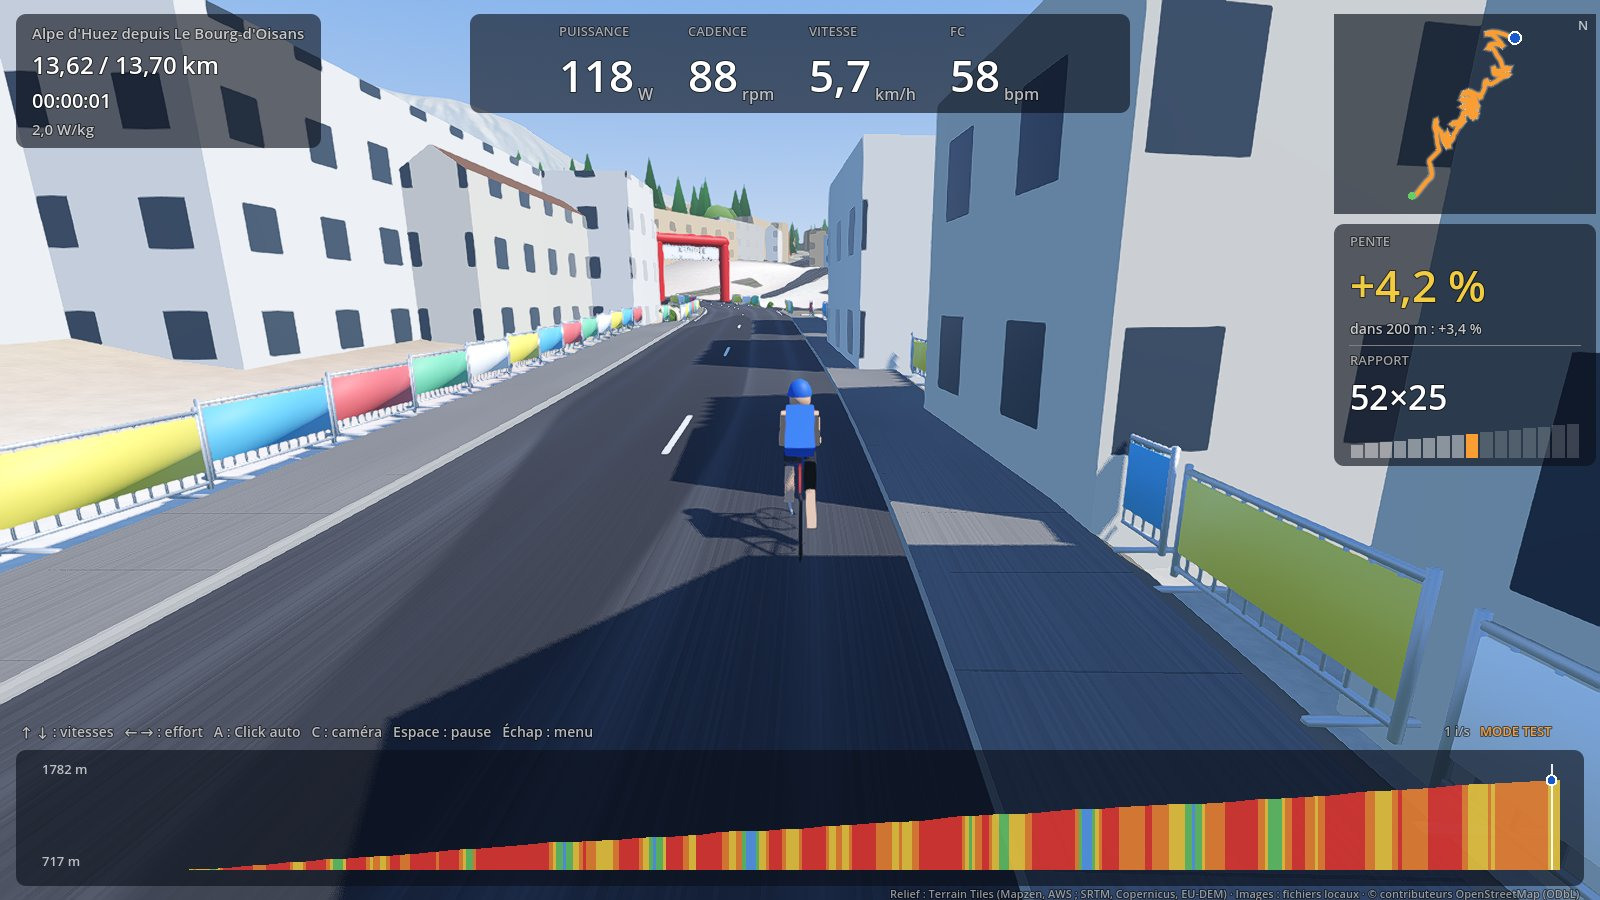
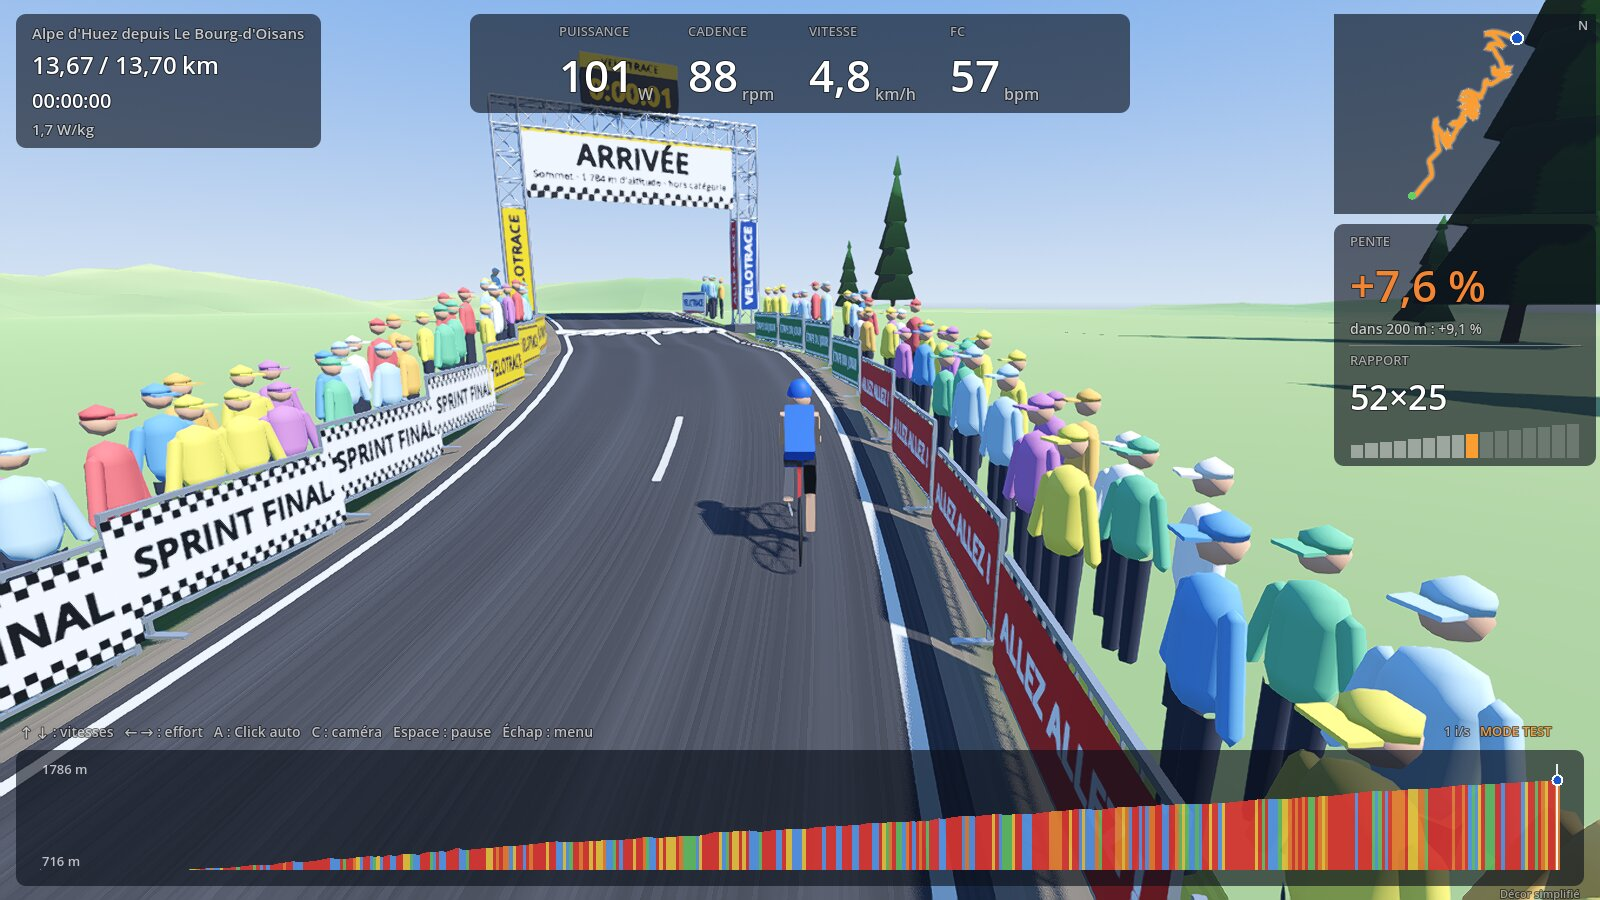
Documente le mobilier de course façon Tour de France
Claude-Session: https://claude.ai/code/session_01GmXukm6M6D5fXNDfcUXFLU

diff --git a/docs/architecture.md b/docs/architecture.md
@@ -112,7 +112,7 @@ Pipeline d'import exécuté une fois par GPX, résultat mis en cache sur disque 
 - route (`road.rs`) : axe lissé (gaussienne σ 5 m) puis rééchantillonné tous les mètres en Catmull-Rom ; maillage 4 sommets par mètre (chaussée de 6 m, accotements de 1,3 m abaissés de 36 cm, au niveau du sol aplani) découpé en tronçons de 200 m ; balises J6 tous les 50 m ; le shader dessine enrobé, rustines, lignes de rive et tirets usés, gravier puis herbe sur les accotements, puis le sol du bord de route (voir plus bas) ;
 - route d'après OSM (`roadnet.rs`) : chaque point du GPX est rattaché à la route OSM la plus plausible (à moins de 14 m, même sens, de préférence la même qu'au point précédent) puis recalé dessus ; profil en travers par échantillon (demi-largeur depuis `width`, sinon `lanes` × largeur de voie selon la classe ; trottoirs `sidewalk*`, sinon trottoir dessiné à part ou au moins trois façades à moins de 28 m ; marquages selon la classe, axe continu quand la courbure lissée dépasse 1/70 m) ; amorces de 30 m pour chaque route qui partage un nœud OSM avec la route suivie ou un anneau : elles partent de ce nœud sous la chaussée (6 cm plus bas, même pente, dévers compris), s'évasent de 2,5 m × sin(angle) au débouché, avec cédez-le-passage là où toute leur largeur est sortie, rive discontinue et trottoir interrompu en face ; le reste de chaque route OSM est drapé sur le relief à partir du bout de son amorce (les routes non raccordées, entières) ; ronds-points étiquetés ou anneaux presque circulaires de 5 à 45 m de rayon, dessinés selon leur polyligne OSM lissée (sens antihoraire, distance signée à l'axe pour masquer le parcours et raccorder les amorces), sur un plan ajusté aux altitudes du parcours (pente ≤ 10 %), avec bande franchissable et îlot bombé ; relief aplani sous tout cela par un index de points (replat puis fondu, d'un côté à l'autre, et incliné comme la chaussée) ;
 - talus raides : à 10 m au-delà de l'accotement, un relief plus haut de 6 à 10 m appelle un mur de soutènement (parement en moellons, terrasse de 11 m au-dessus qui cache le replat laissé derrière lui pour la maille de 4 m du relief, hauteur 1 à 4 m), plus haut une falaise sculptée (`Cliff` : paroi en grille de 1 m × 0,5 m partant à 0,8 m de l'accotement, fruit de 14 %, relief de ±1 m fait de bancs inclinés en corniches, bombements, ravines tous les ~9 m et blocs, hauteur lissée jusqu'à 30 m et abaissée sur 12 m aux extrémités, rebord qui s'enfonce dans le relief, bouts fermés ; replat de 3 m au pied puis fondu de 8 m du relief derrière la paroi ; shader `cliff.gdshader`), plus bas de 6 m un parapet de 0,75 m ; ni dans un lacet serré, ni contre une autre portion du parcours, une amorce ou un rond-point ;
-- course (`race.rs`) : ascensions détectées sur le profil (`Route::climbs` : au moins 2,5 % sur 200 m, replats de moins de 400 m tolérés, au moins 80 m de dénivelé à 3 % de moyenne) ; arches au départ (15 m), au pied et au sommet de chaque ascension et à l'arrivée, fusionnées à moins de 300 m ; barrières tous les 2,5 m des deux côtés sur 150 m après le départ, ±60 m autour des arches d'ascension et 300 m avant l'arrivée ; arches construites dans Godot (`race.gd`, shader à pois ou damier) ;
+- course (`race.rs`) : ascensions détectées sur le profil (`Route::climbs` : au moins 2,5 % sur 200 m, replats de moins de 400 m tolérés, au moins 80 m de dénivelé à 3 % de moyenne) ; catégorie selon longueur × pente (4e à hors catégorie) ; arches au départ (15 m), au pied et au sommet de chaque ascension (sommet seulement à plus de 300 m de l'arrivée) et à l'arrivée, fusionnées à moins de 300 m, plus banderoles 3 km et 2 km et flamme rouge à 1 km quand elles tombent à au moins 150 m d'une autre arche ; barrières tous les 2,5 m des deux côtés, tournées vers la route, sur 150 m après le départ, ±60 m autour des arches d'ascension, ±40 m autour de la flamme rouge et des 300 derniers mètres jusqu'à 30 m après la ligne, quatre de suite partageant une même bâche ; public derrière les barrières (`spectators`) ; construction dans Godot (`race.gd` : portique en treillis, arches gonflables, ligne d'arrivée peinte, chronomètre `race_clock.gd`, bâches dessinées une fois dans un SubViewport par `race_atlas.gd`, barrières et public en MultiMesh par blocs de 64 m masqués au loin) ;
 - trajectoire du cycliste : à ~1,1 m du bord droit de la chaussée, décalée vers l'intérieur du virage selon la courbure (gain 50) quand la pente est nulle ou négative (pas dans un rond-point), sans franchir l'axe sur une route à double sens (toute la largeur sur une route étroite ou à sens unique), puis lissée sur 10 m et bornée à nouveau (jamais à moins de 0,5 m d'une bordure de trottoir) ; cap mesuré sur ±2 m et inclinaison atan(v²κ/g) ;
 - arbres et buissons : maillages faits main (sapin à 4 étages tombants, feuillu en 5 boules), vent dans le shader ; instances regroupées par cases de 128 m avec une version détaillée jusqu'à 110 à 260 m et une version simplifiée au-delà ;
 - sol du bord de route (`ground.gdshaderinc`, partagé par le relief, les accotements et le rebord des falaises) : chaque carré détaillé reçoit une carte de 128 px (4 m) donnant la part d'herbe, de revêtement et de cailloux (le reste en terre), tirée de l'occupation OSM sans les routes, de la pente du relief brut (éboulis au-delà de ~35°), de l'altitude et de la proximité des bâtiments (cours et parkings, pas sur les talus), et en alpha la proximité d'une chaussée (poids de l'aplanissement × 1,6) ; les sommets des chaussées portent la même nature en CUSTOM0, si bien que l'accotement et le relief ont la même texture au même endroit. Le shader mélange les natures par plaques (bruits fractals, poids au cube) et dessine herbe (brins orientés, touffes, fleurs), cailloux (cellules de Voronoï à trois échelles), terre (aiguilles, galets) et ville (enrobé, dalles de 1,5 m ou pavés en quinconce selon le quartier, joints herbeux), avec un relief fin rendu par la normale perturbée (gradient de surface, sans tangentes) et un hachage entier précis loin de l'origine ;

diff --git a/README.md b/README.md
@@ -67,9 +67,9 @@ Là où la montagne est raide au bord de la route, un mur de soutènement en moe
 
 Au-delà de 45°, une falaise sculptée se dresse au bord de la route : paroi en relief jusqu'à 30 m de haut, avec ses bancs inclinés en corniches, ses ravines, ses surplombs, ses coulures, ses lichens et un rebord herbeux qui rejoint la pente.
 
-![Arche d'arrivée et barrières](docs/captures/arrivee.jpg)
+![Portique d'arrivée, barrières et public](docs/captures/arrivee.jpg)
 
-Comme sur les grands tours, une arche gonflable marque le départ, le pied et le sommet de chaque ascension (à pois, avec sa longueur, sa pente moyenne et l'altitude du sommet) et l'arrivée, avec des barrières à leurs abords. Une ascension compte à partir de 80 m de dénivelé à 3 % de moyenne.
+Comme sur le Tour de France : arche gonflable bleue et blanche au départ, banderole à pois au pied de chaque ascension (longueur, pente moyenne et catégorie, de la 4e à hors catégorie), arche à pois « Grand prix de la montagne » au sommet, banderoles 3 km et 2 km, flamme rouge au dernier kilomètre et, à l'arrivée, un portique en treillis métallique avec son chronomètre, sa banderole « ARRIVÉE » et une ligne peinte à damier. Des barrières habillées de bâches imprimées (slogans inventés, aucune vraie marque) bordent ces endroits, les 300 derniers mètres en entier, avec du public derrière. Une ascension compte à partir de 80 m de dénivelé à 3 % de moyenne.
 
 Près du parcours, des sapins et des feuillus poussent là où OSM indique une forêt ou là où l'image aérienne est vert sombre (version détaillée de près, simplifiée au-delà) ; les bâtiments sont extrudés à leur hauteur avec des fenêtres et restent visibles au loin, les routes et rivières sont drapées sur le relief, les lacs posés à plat. Près de la route, l'herbe des accotements et un grain de détail sur le sol masquent le flou des images aériennes.
 
